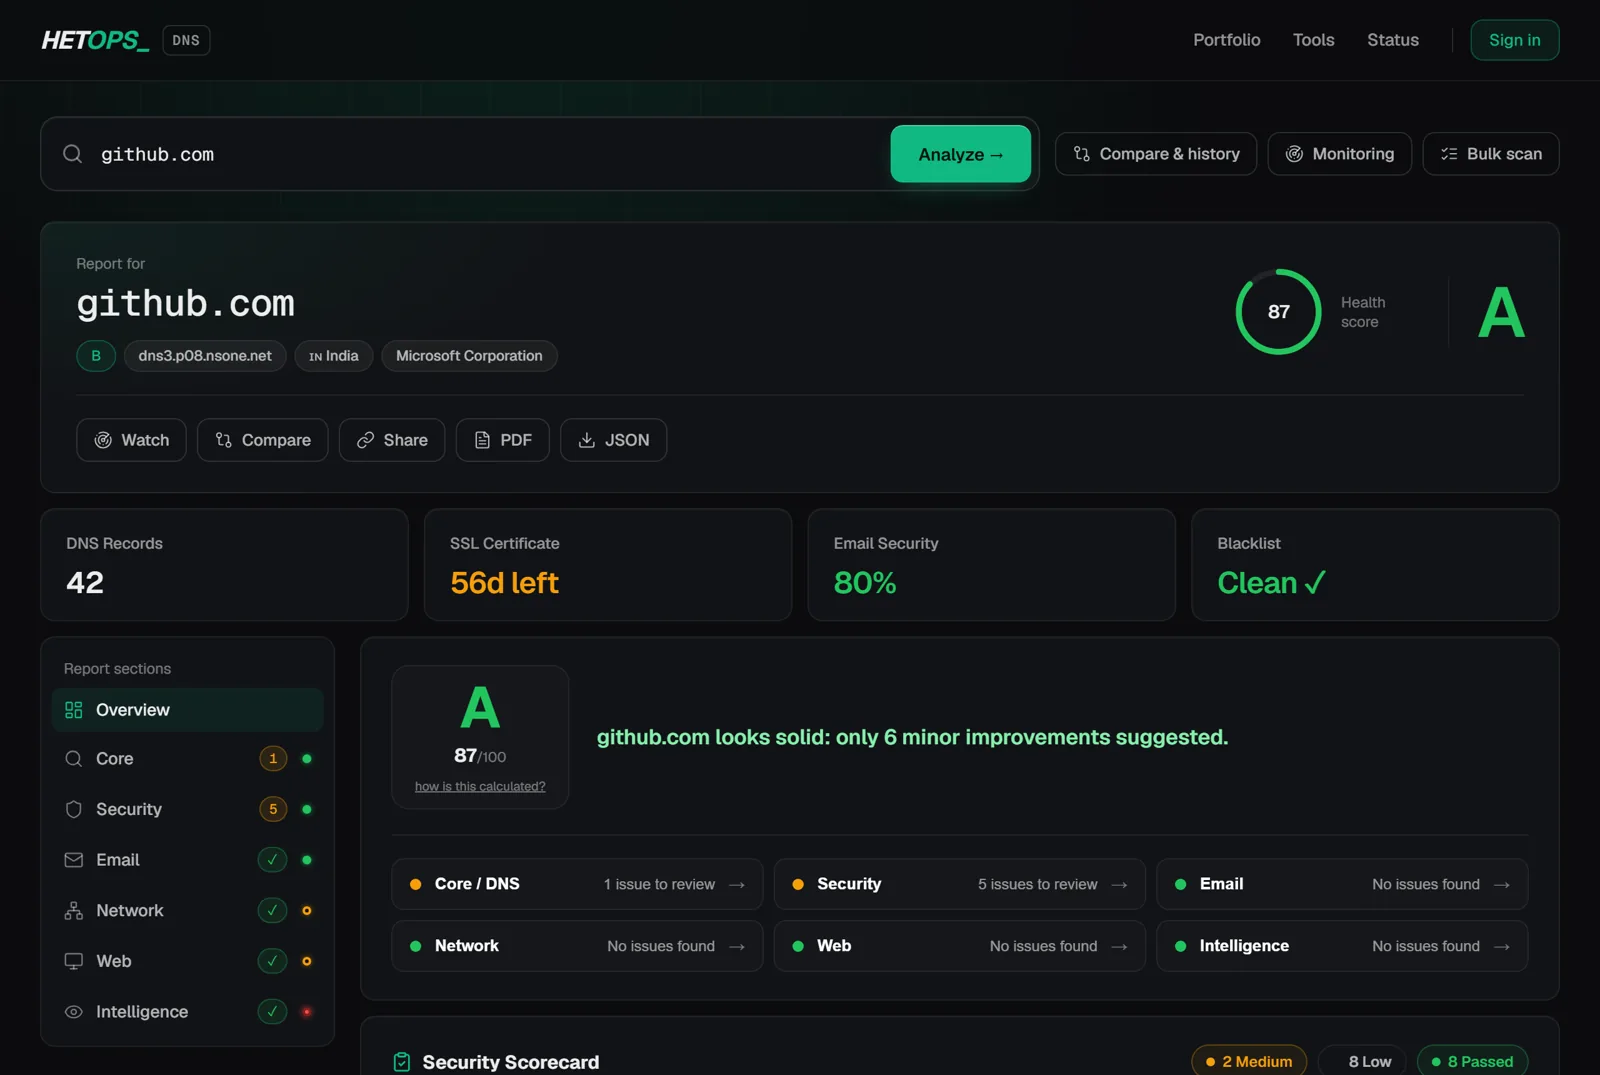
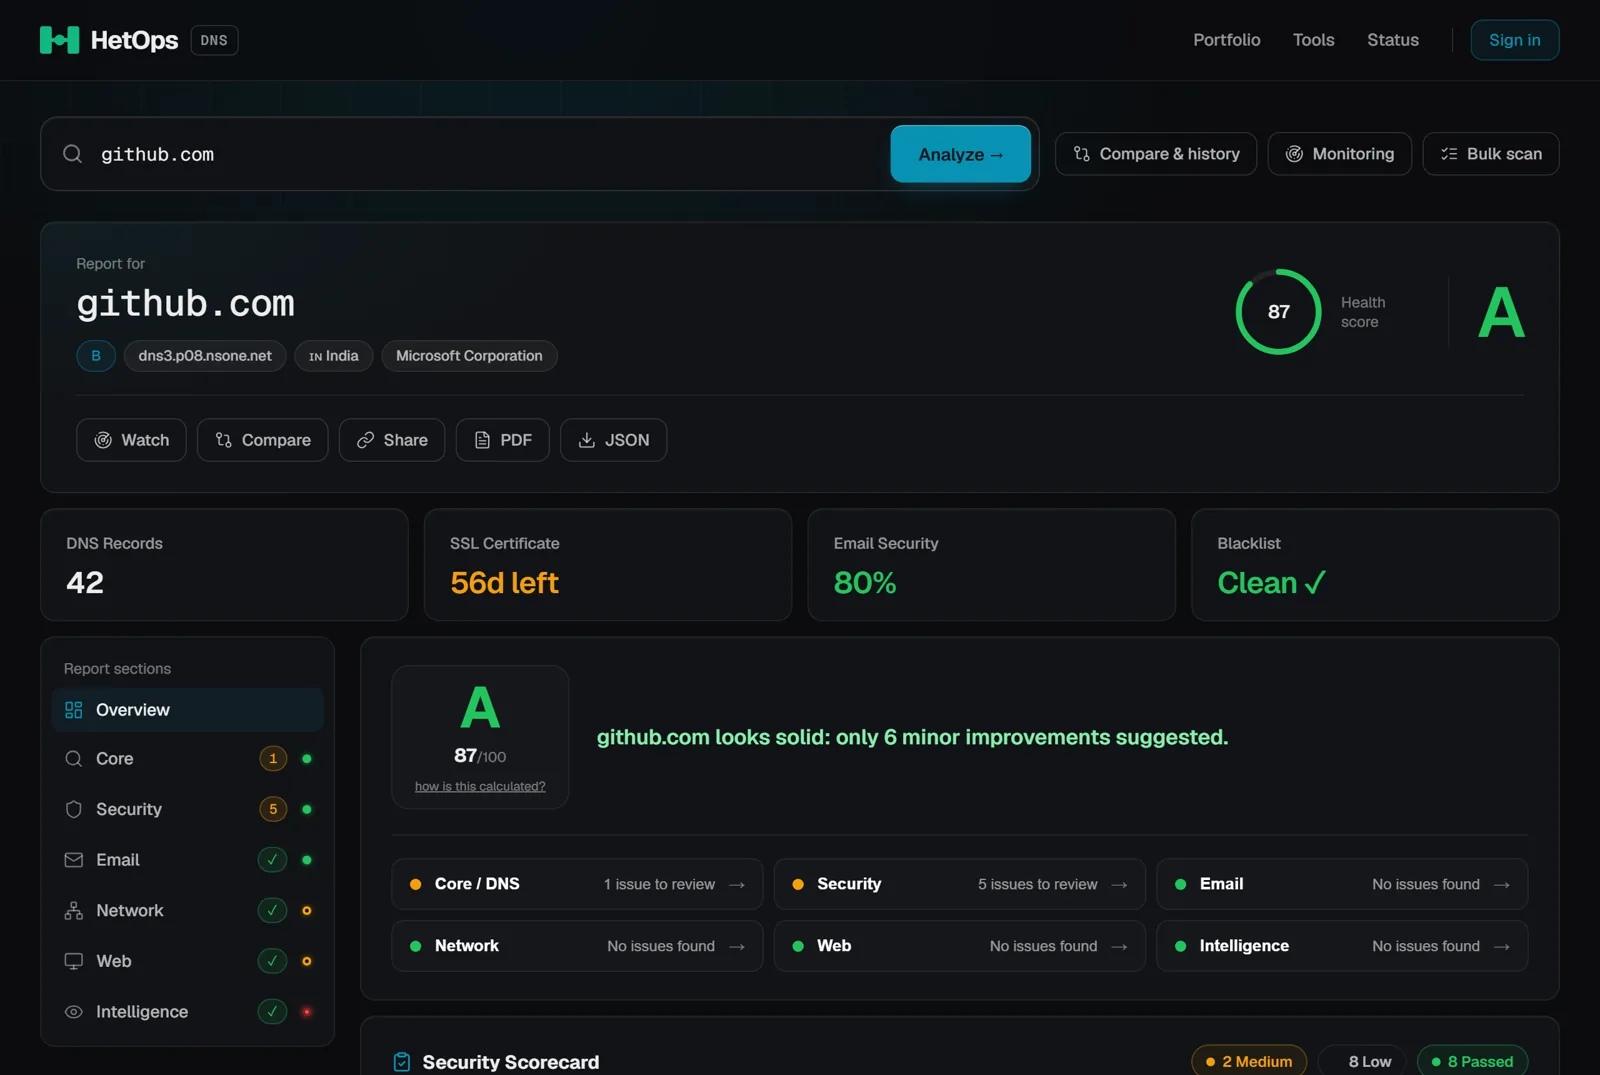
Refresh DNS screenshot and share image with the live cyan DNS UI

Changed region(s): [[0.5312, 0.0921, 0.6562, 0.1842], [0.0, 0.0, 0.1562, 0.0614], [0.9375, 0.0307, 0.9688, 0.0614]]

diff --git a/index.html b/index.html
@@ -17,11 +17,11 @@
   <meta property="og:url" content="https://hetops.dev/">
   <meta property="og:title" content="Het Patel: I turn production incidents into tools">
   <meta property="og:description" content="DevOps Engineer II in Mumbai. Threadvault, DNS Intelligence, and multi-cloud Kubernetes.">
-  <meta property="og:image" content="https://hetops.dev/assets/og.png">
+  <meta property="og:image" content="https://hetops.dev/assets/og.png?v=2">
   <meta property="og:image:width" content="1200">
   <meta property="og:image:height" content="630">
   <meta name="twitter:card" content="summary_large_image">
-  <meta name="twitter:image" content="https://hetops.dev/assets/og.png">
+  <meta name="twitter:image" content="https://hetops.dev/assets/og.png?v=2">
 
   <script type="application/ld+json">
   {"@context":"https://schema.org","@type":"Person","name":"Het Patel","url":"https://hetops.dev/","jobTitle":"DevOps Engineer II","worksFor":{"@type":"Organization","name":"Techdome"},"address":{"@type":"PostalAddress","addressLocality":"Mumbai","addressCountry":"IN"},"alumniOf":"CHARUSAT University","sameAs":["https://github.com/Het101","https://www.linkedin.com/in/het11/","https://medium.com/@het101"]}
@@ -38,7 +38,7 @@
   <link href="https://fonts.googleapis.com/css2?family=Geist:wght@400;500;600;700&family=Geist+Mono:wght@400;500&display=swap" rel="stylesheet">
   <link rel="stylesheet" href="https://unpkg.com/@phosphor-icons/web@2.1.1/src/regular/style.css">
   <link rel="stylesheet" href="/styles.css">
-  <link rel="preload" as="image" href="/assets/img/dns-report.webp">
+  <link rel="preload" as="image" href="/assets/img/dns-report.webp?v=2">
 </head>
 <body>
   <a class="skip" href="#main">Skip to content</a>
@@ -75,7 +75,7 @@
       </div>
       <div class="hero-visual" aria-hidden="true">
         <figure class="shot shot-back">
-          <img src="/assets/img/dns-report.webp" width="1600" height="1075" alt="" fetchpriority="high">
+          <img src="/assets/img/dns-report.webp?v=2" width="1600" height="1075" alt="" fetchpriority="high">
         </figure>
         <figure class="shot shot-front">
           <img src="/assets/img/doctor-output.webp" width="1400" height="806" alt="">
@@ -132,7 +132,7 @@
 
       <article class="wide reveal">
         <a class="wide-media" href="https://dns.hetops.dev" target="_blank" rel="noopener" data-umami-event="project-link" data-umami-event-project="dns-screenshot">
-          <img src="/assets/img/dns-report.webp" width="1600" height="1075" loading="lazy"
+          <img src="/assets/img/dns-report.webp?v=2" width="1600" height="1075" loading="lazy"
                alt="DNS Intelligence report for github.com: health score 87, grade A, with a side menu of report sections.">
         </a>
         <div class="wide-body">
